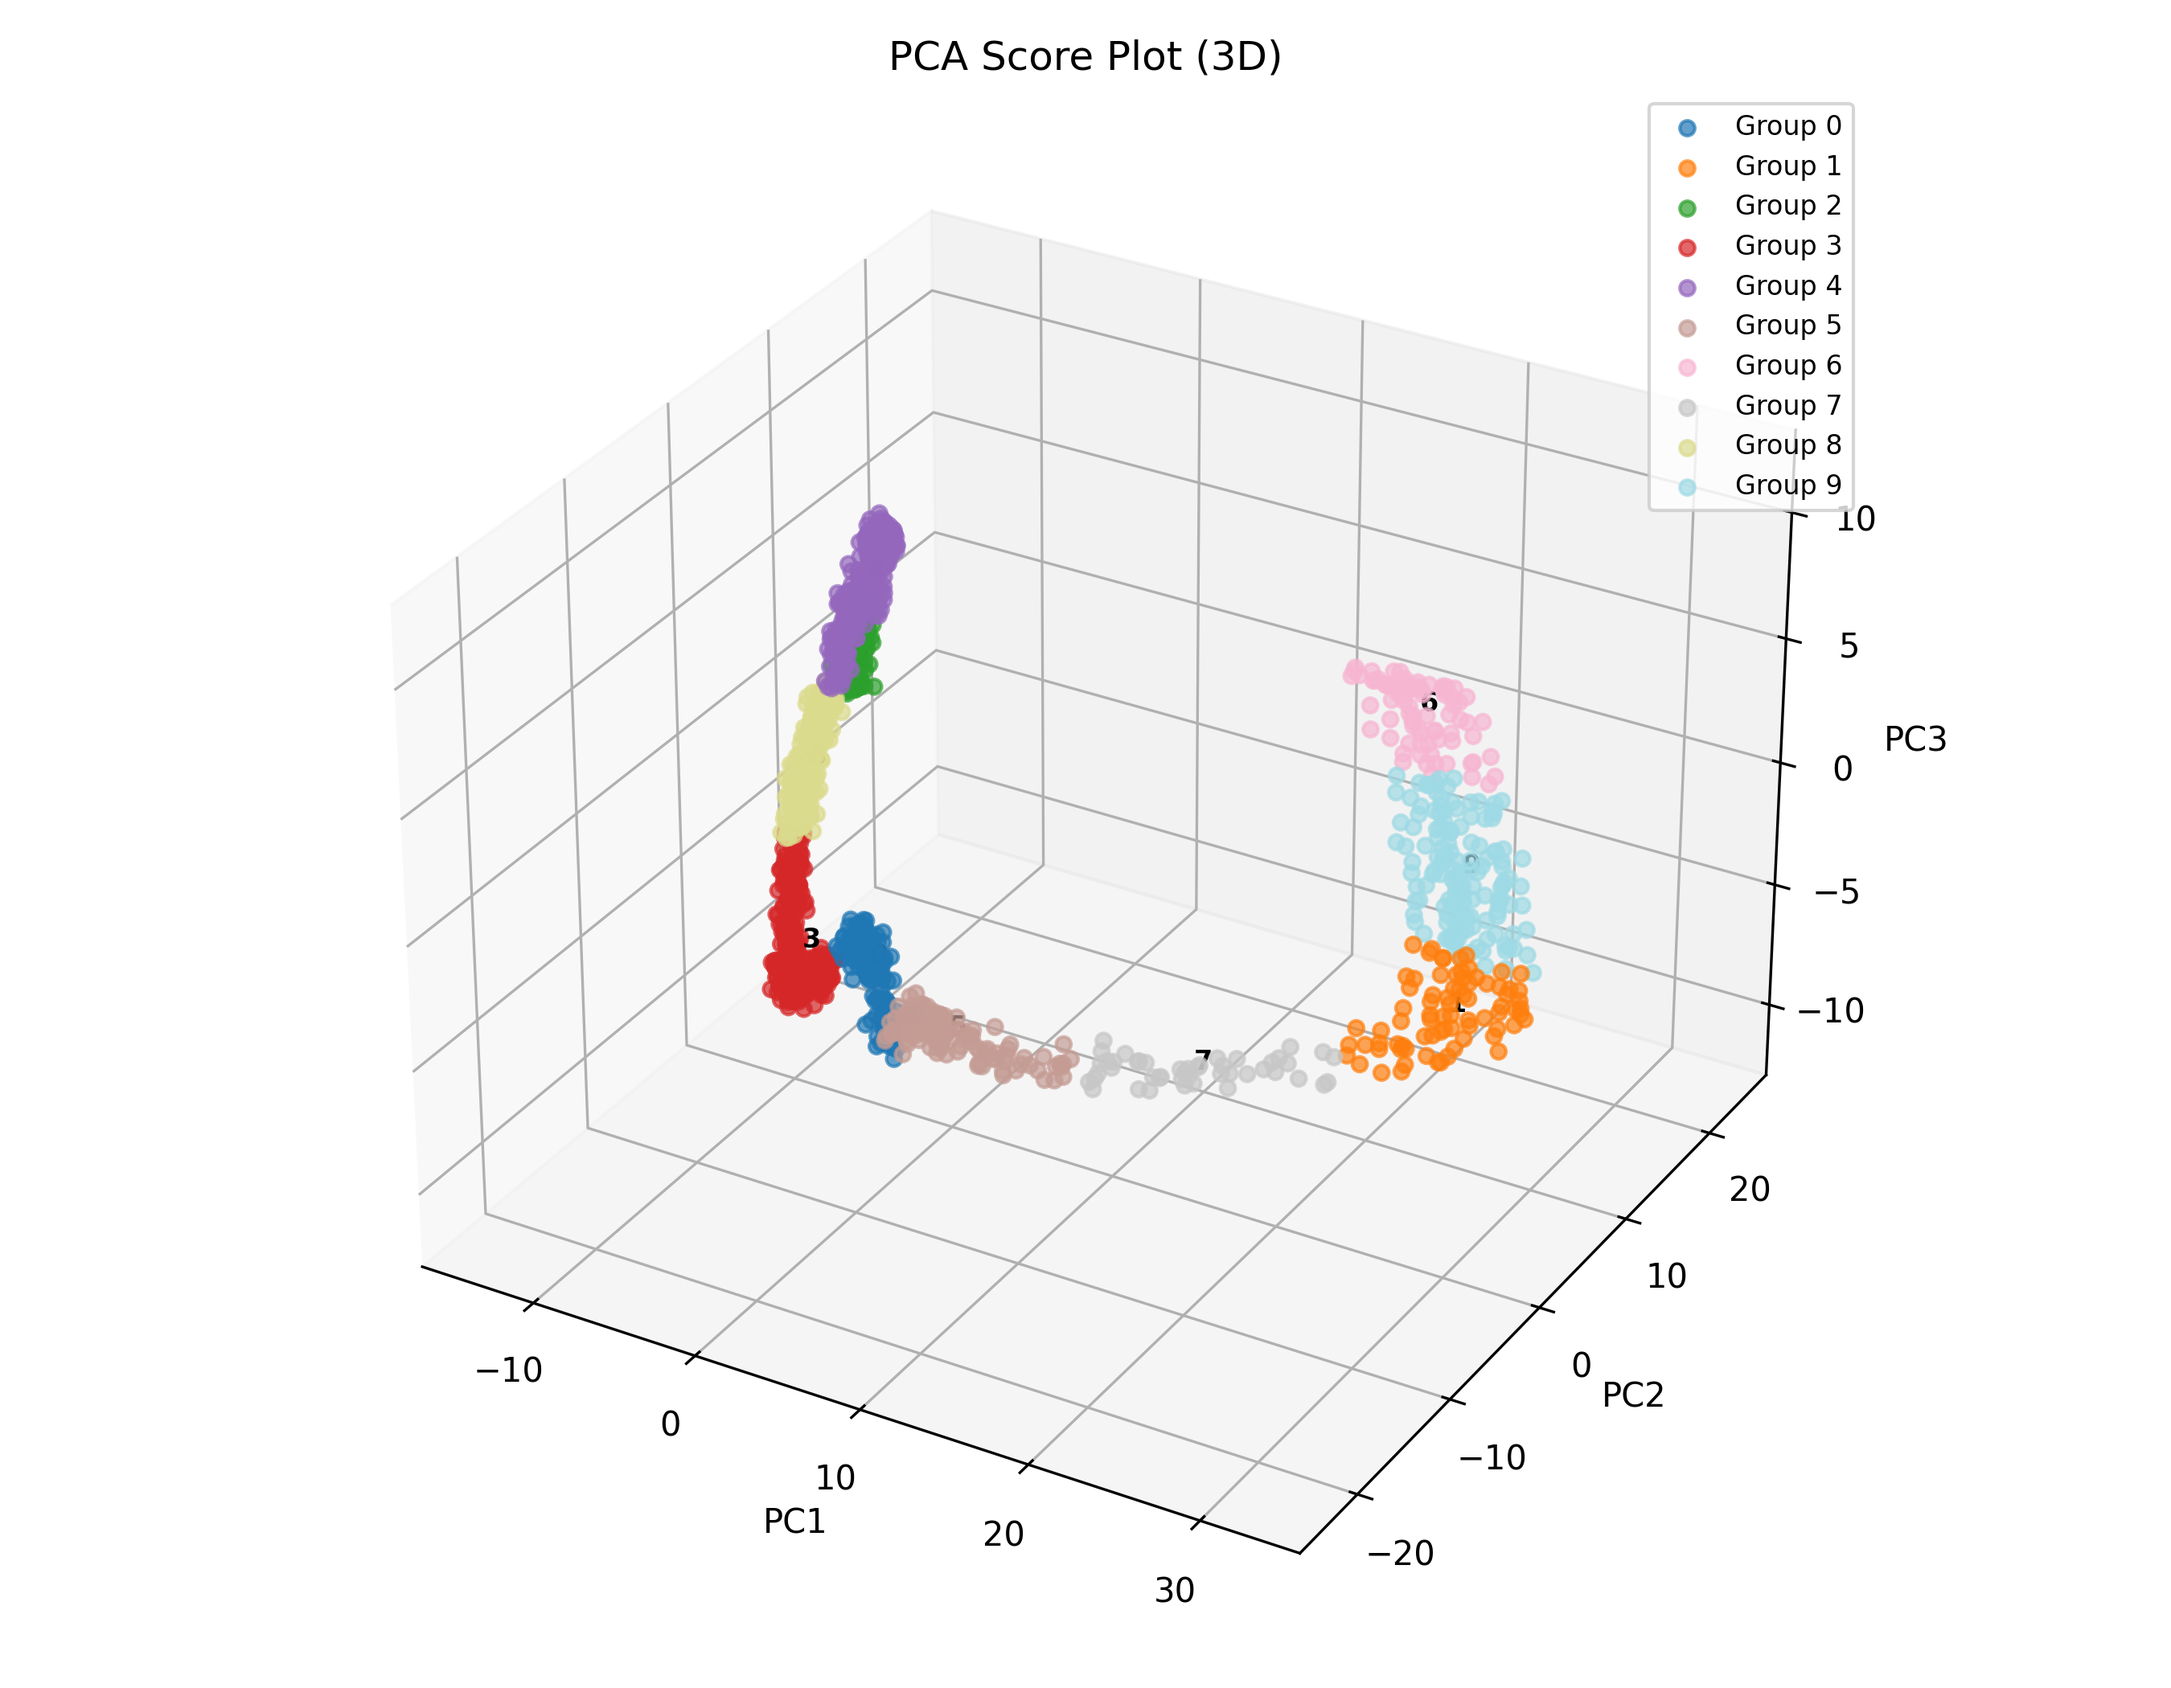
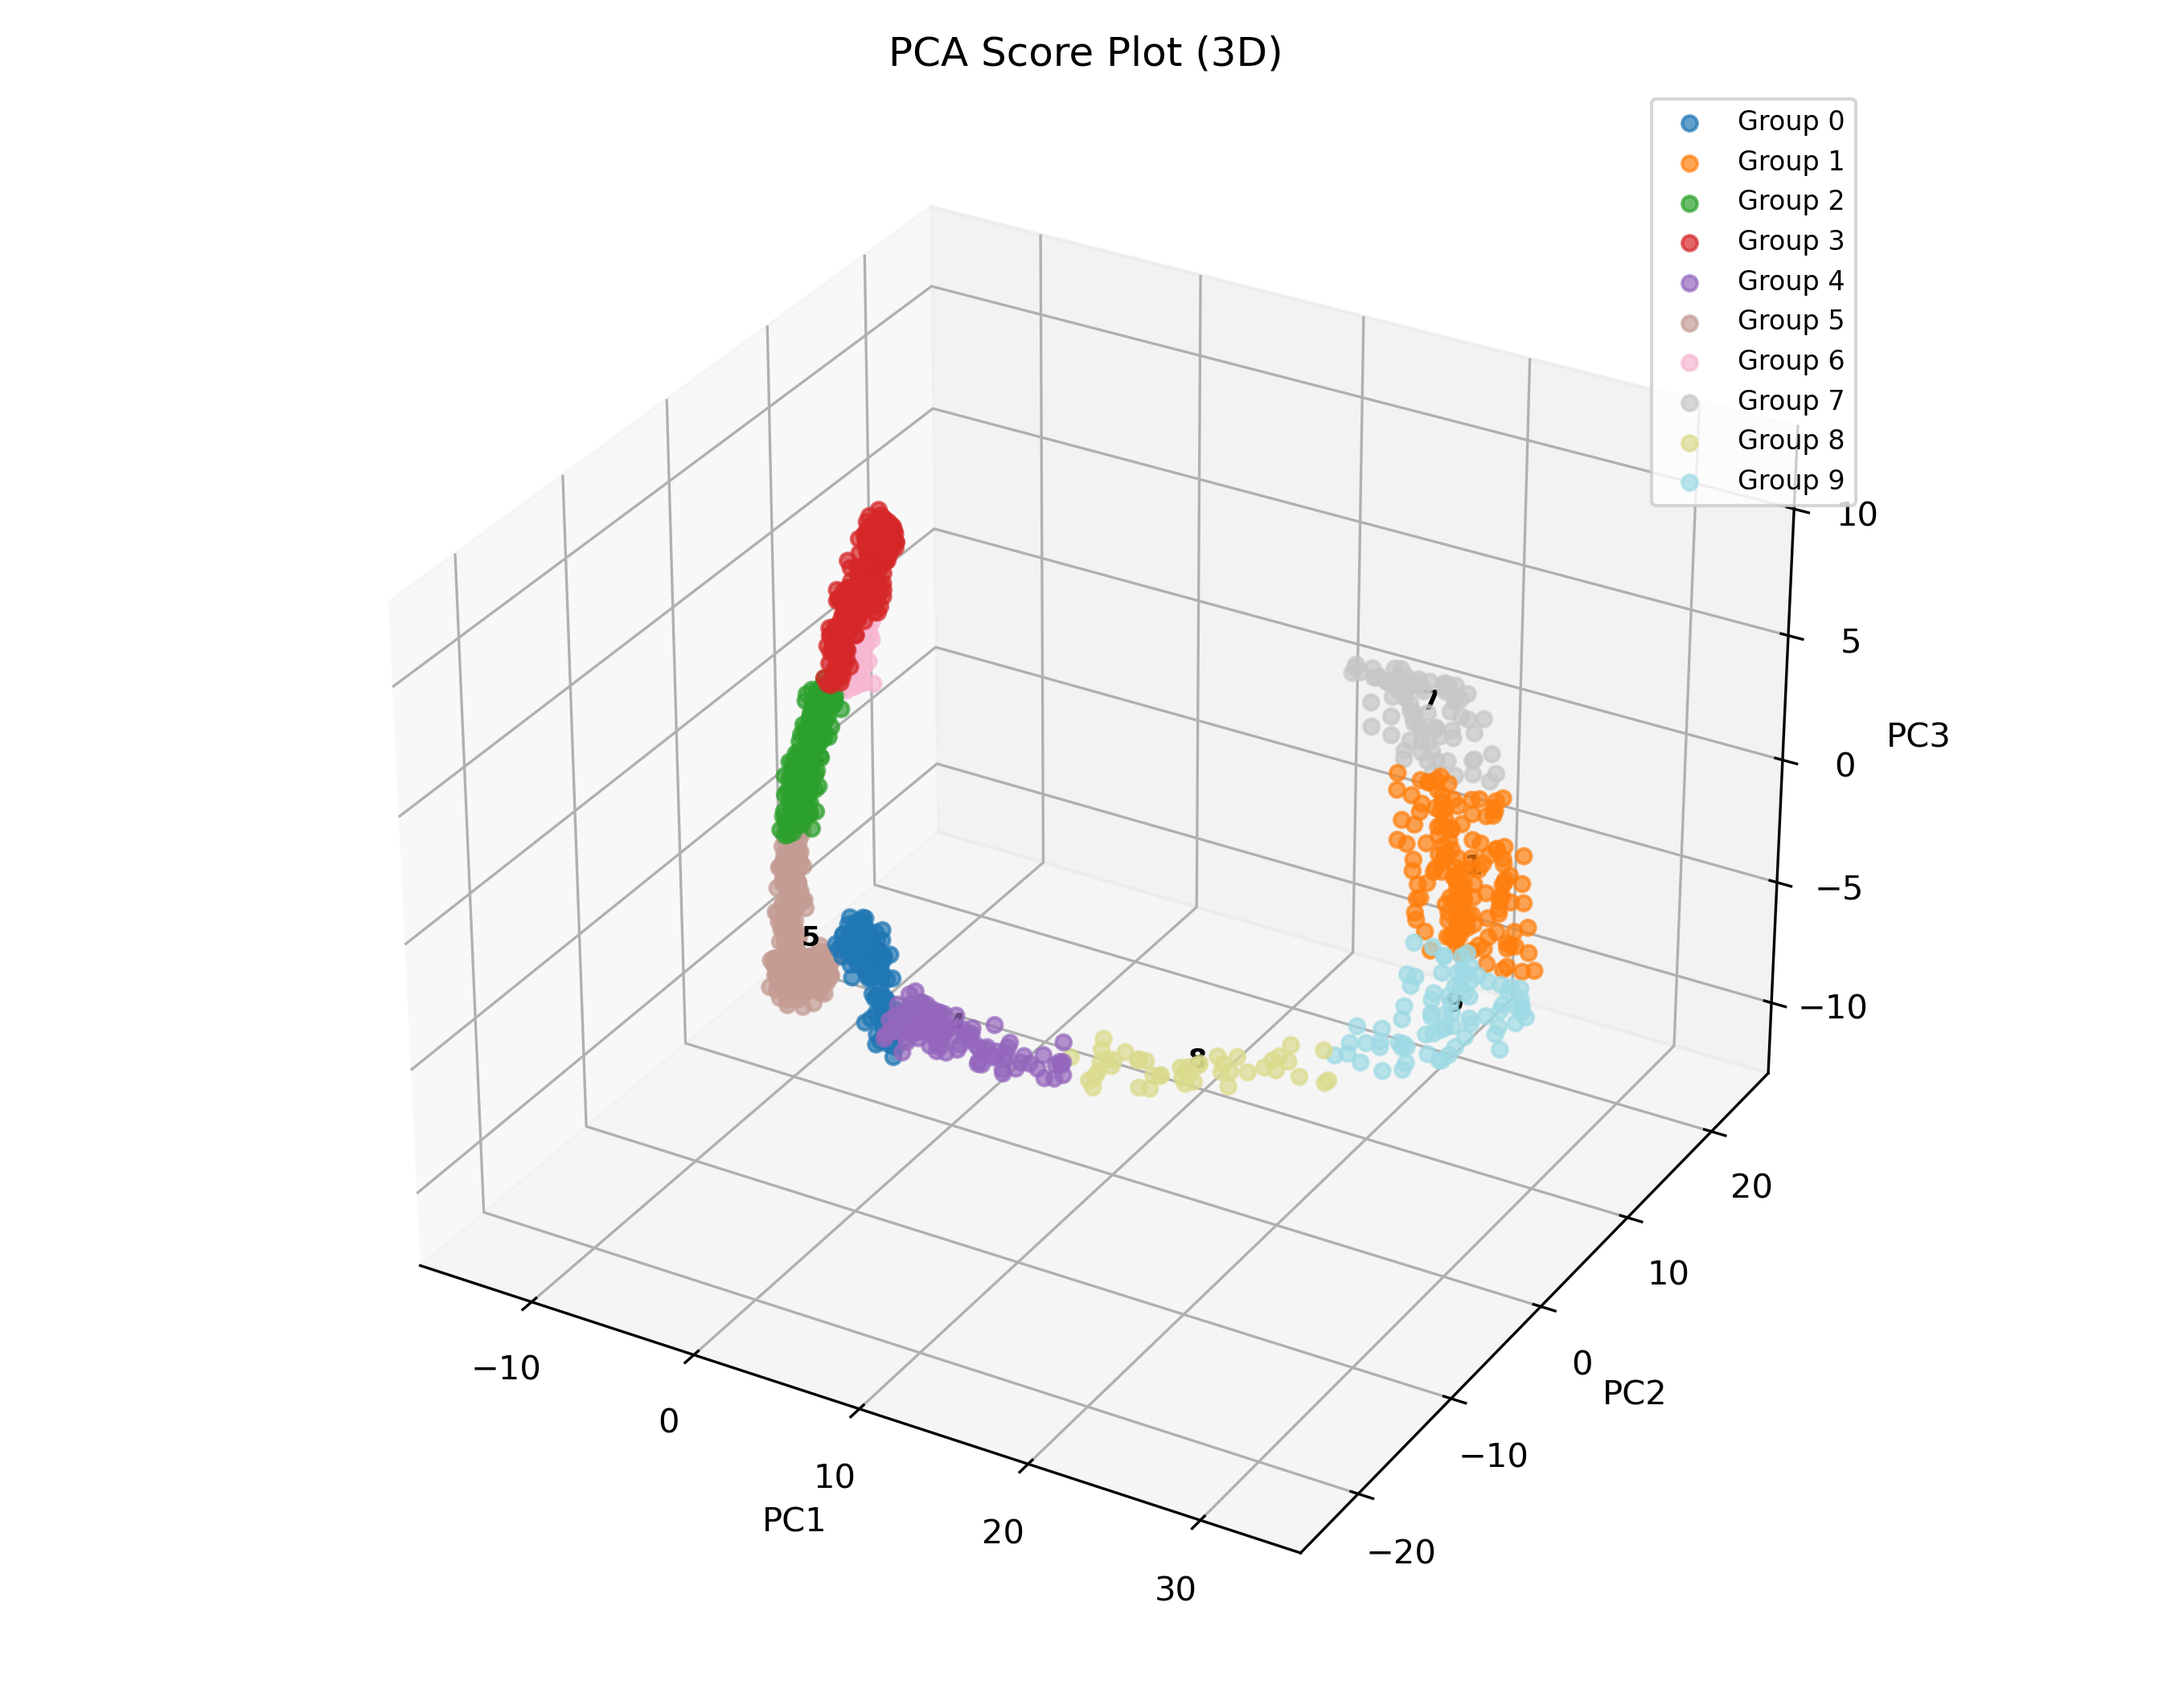
Add MST based path planning algorithm

diff --git a/src/clustering.py b/src/clustering.py
@@ -8,6 +8,11 @@
 import numpy as np
 from sklearn.cluster import KMeans
 from sklearn.metrics import pairwise_distances
+from scipy.spatial.distance import pdist, squareform
+from scipy.sparse.csgraph import minimum_spanning_tree
+from scipy.sparse import csr_matrix
+from collections import deque
+
 
 def perform_kmeans(T_all, n_clusters=10, random_state=0):
     """
@@ -49,6 +54,78 @@ def build_cluster_path(centers):
         current = next_idx
 
     return visited
+
+def build_cluster_path_mst(centers: np.ndarray) -> list:
+    """
+    基于最小生成树（MST）+ 最长路径启发 + 最近邻插入 的聚类路径构建方法。
+
+    参数：
+        centers (np.ndarray): 每个聚类的中心点坐标，shape = (G, A)
+
+    返回：
+        List[int]: 聚类顺序路径，例如 [3, 0, 5, 2, ...]
+    """
+    G = len(centers)
+    if G <= 2:
+        return list(range(G))
+
+    # Step 1: 计算欧氏距离矩阵并构建MST（无向图）
+    dist_matrix = squareform(pdist(centers))
+    mst = minimum_spanning_tree(dist_matrix).toarray()
+    graph = mst + mst.T  # 转为无向图
+
+    # Step 2: BFS 找到最长路径的两个端点
+    def bfs_farthest(start):
+        visited = {start}
+        queue = deque([(start, 0)])
+        farthest = (start, 0)
+        while queue:
+            node, dist = queue.popleft()
+            if dist > farthest[1]:
+                farthest = (node, dist)
+            for neighbor in np.where(graph[node] > 0)[0]:
+                if neighbor not in visited:
+                    visited.add(neighbor)
+                    queue.append((neighbor, dist + graph[node, neighbor]))
+        return farthest
+
+    A, _ = bfs_farthest(0)
+    B, _ = bfs_farthest(A)
+
+    # Step 3: 回溯获取 A 到 B 的路径（主干路径）
+    def get_path(u, v):
+        parent = {u: None}
+        queue = deque([u])
+        while queue:
+            curr = queue.popleft()
+            if curr == v:
+                break
+            for neighbor in np.where(graph[curr] > 0)[0]:
+                if neighbor not in parent:
+                    parent[neighbor] = curr
+                    queue.append(neighbor)
+        path = []
+        curr = v
+        while curr is not None:
+            path.append(curr)
+            curr = parent[curr]
+        return path[::-1]
+
+    main_path = get_path(A, B)
+
+    # Step 4: 插入未包含的剩余节点（最近邻插入）
+    full_order = main_path.copy()
+    unused = set(range(G)) - set(full_order)
+    while unused:
+        insert_idx = unused.pop()
+        # 找到full_order中距离该点最近的位置插入
+        dists = {i: np.linalg.norm(centers[insert_idx] - centers[i]) for i in full_order}
+        nearest = min(dists, key=dists.get)
+        pos = full_order.index(nearest)
+        full_order.insert(pos + 1, insert_idx)
+
+    return full_order
+
 
 def build_cluster_index_map(labels):
     """
